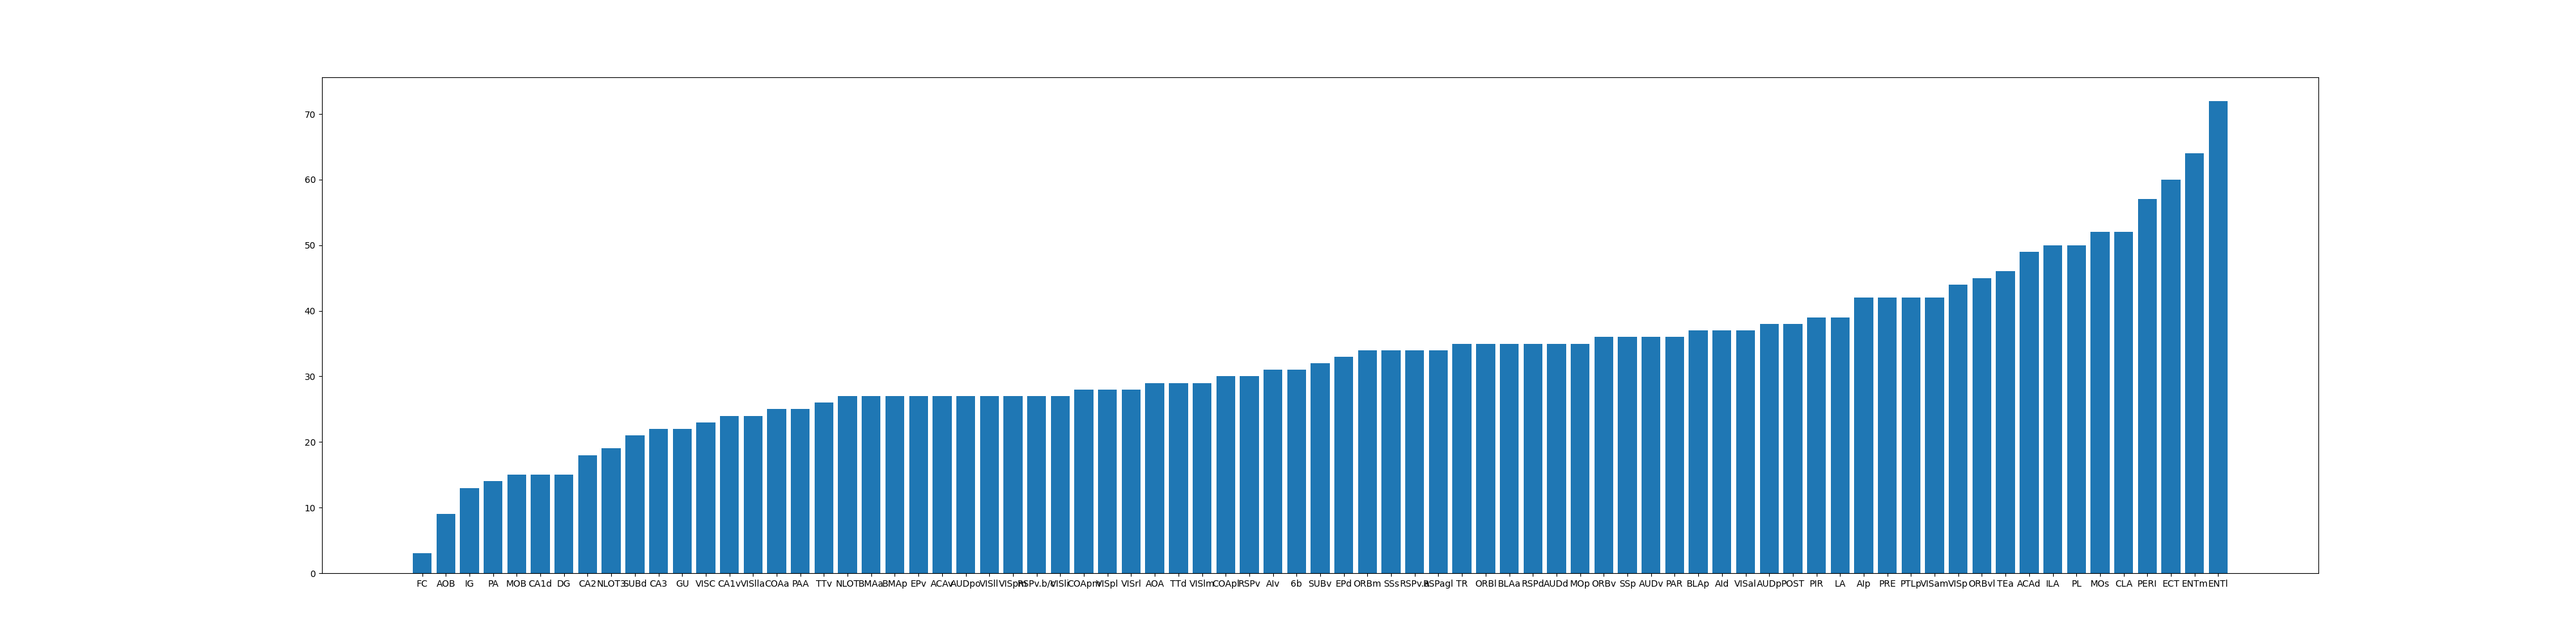
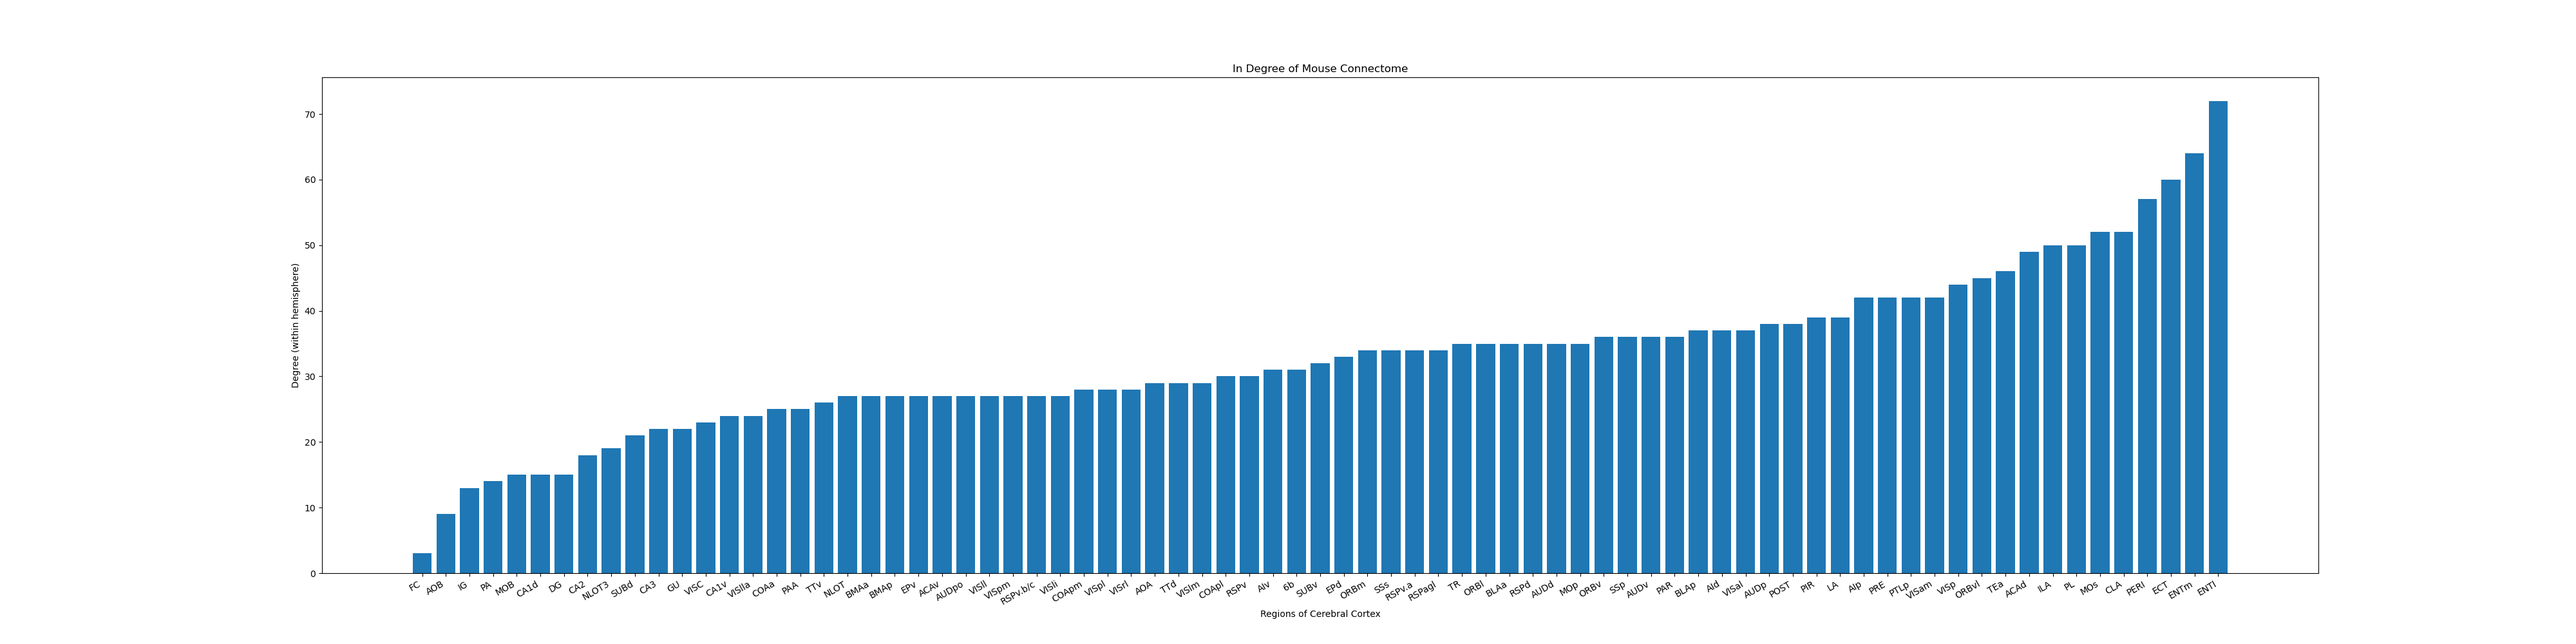
"reformatted graphs"

Changed region(s): [[0.1562, 0.899, 0.875, 0.961], [0.4688, 0.093, 0.5312, 0.124]]

diff --git a/graph.py b/graph.py
@@ -36,20 +36,21 @@ def graph_help(graph):
 	sorted_in = {k: v for k, v in sorted(in_degree.items(), key=lambda item: item[1])}
 	sorted_out = {k: v for k, v in sorted(out_degree.items(), key=lambda item: item[1])}
 
-	plt.figure(figsize=(30, 10))
-	plt.bar(sorted_out.keys(), sorted_out.values(), width=1)
-	plt.xlabel('Regions of Cerebral Cortex')
-	plt.ylabel('Degree (within hemisphere)')
-	plt.title("Out Degree of Mouse Connectome")
+	fig, ax = plt.subplots(figsize=(40, 10))
+	ax.bar(sorted_out.keys(), sorted_out.values())
+	ax.set_xlabel('Regions of Cerebral Cortex')
+	ax.set_ylabel('Degree (within hemisphere)')
+	ax.set_title("Out Degree of Mouse Connectome")
+	plt.setp(ax.get_xticklabels(), rotation=30, horizontalalignment='right')
 	plt.savefig('out_degree.png')
 	
-	plt.figure(figsize=(30, 10))
-	plt.bar(sorted_in.keys(), sorted_in.values(), width=1)
-	plt.xlabel('Regions of Cerebral Cortex')
-	plt.ylabel('Degree (within hemisphere)')
-	plt.title("In Degree of Mouse Connectome")
+	fig, ax = plt.subplots(figsize=(40, 10))
+	ax.bar(sorted_in.keys(), sorted_in.values())
+	ax.set_xlabel('Regions of Cerebral Cortex')
+	ax.set_ylabel('Degree (within hemisphere)')
+	ax.set_title("In Degree of Mouse Connectome")
+	plt.setp(ax.get_xticklabels(), rotation=30, horizontalalignment='right')
 	plt.savefig('in_degree.png')
-
 
 	####################### STENGTH GRAPH #######################
 	### Manisha's TODO ###
@@ -74,17 +75,19 @@ def graph_help(graph):
 	sorted_outD = {k: v for k, v in sorted(strengthOUT.items(), key=lambda item: item[1])}
 
 	#Input Strength Graph
-	plt.figure(figsize=(30,10))
-	plt.bar(sorted_inD.keys(), sorted_inD.values(), width=1)
-	plt.xlabel('Regions of Cerebral Cortex')
-	plt.ylabel('Strength (within hemisphere)')
-	plt.title("In Strength of Mouse Connectome")
-	plt.savefig('inStrength.png')
+	fig, ax = plt.subplots(figsize=(40, 10))
+	ax.bar(sorted_inD.keys(), sorted_inD.values())
+	ax.set_xlabel('Regions of Cerebral Cortex')
+	ax.set_ylabel('Strength (within hemisphere)')
+	ax.set_title("In Strength of Mouse Connectome")
+	plt.setp(ax.get_xticklabels(), rotation=30, horizontalalignment='right')
+	plt.savefig('in_strength.png')
 
 	#Output Strength
-	plt.figure(figsize=(30,10))
-	plt.bar(sorted_outD.keys(), sorted_outD.values(), width=1)
-	plt.xlabel('Regions of Cerebral Cortex')
-	plt.ylabel('Strength (within hemisphere)')
-	plt.title("Out Strength of Mouse Connectome")
-	plt.savefig('outStrength.png')
+	fig, ax = plt.subplots(figsize=(40, 10))
+	ax.bar(sorted_outD.keys(), sorted_outD.values())
+	ax.set_xlabel('Regions of Cerebral Cortex')
+	ax.set_ylabel('Strength (within hemisphere)')
+	ax.set_title("Out Strength of Mouse Connectome")
+	plt.setp(ax.get_xticklabels(), rotation=30, horizontalalignment='right')
+	plt.savefig('out_strength.png')

diff --git a/collectData.py b/collectData.py
@@ -65,7 +65,7 @@ graph_help(graph)
 
 ####################### Clustering Coefficient ###################
 clustering_coeff = nx.average_clustering(graph, weight="weight")
-print(clustering_coeff)
+print("Clustering Coefficient: ", clustering_coeff)
 
 
 
